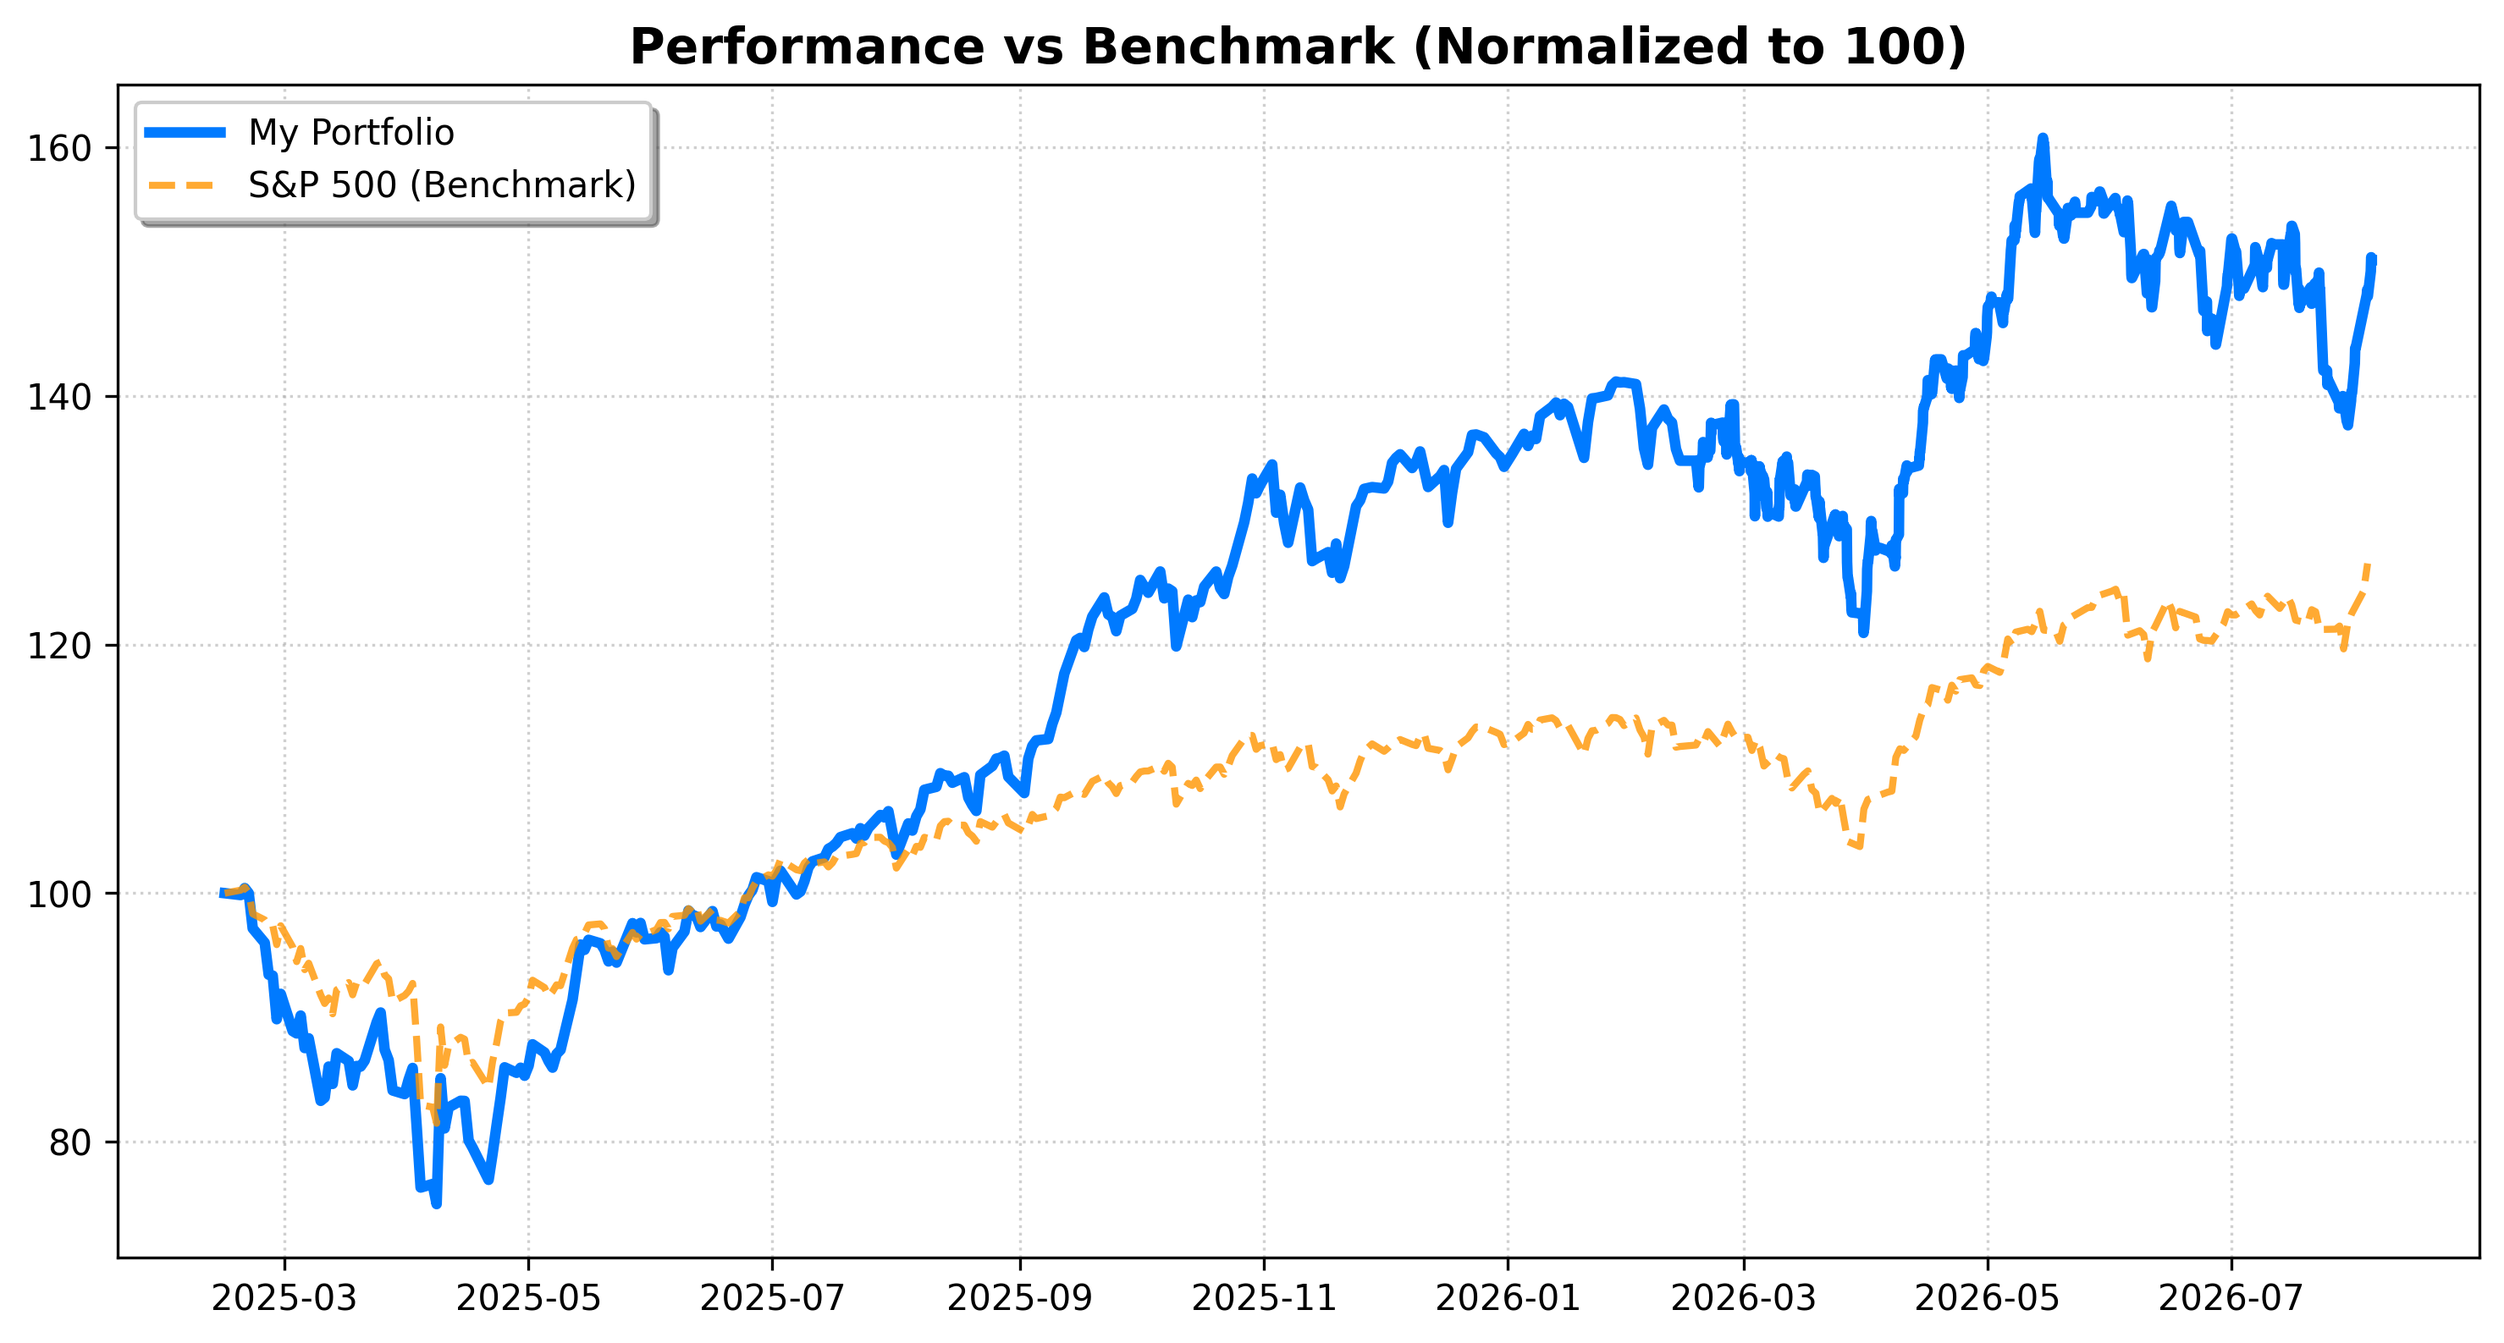
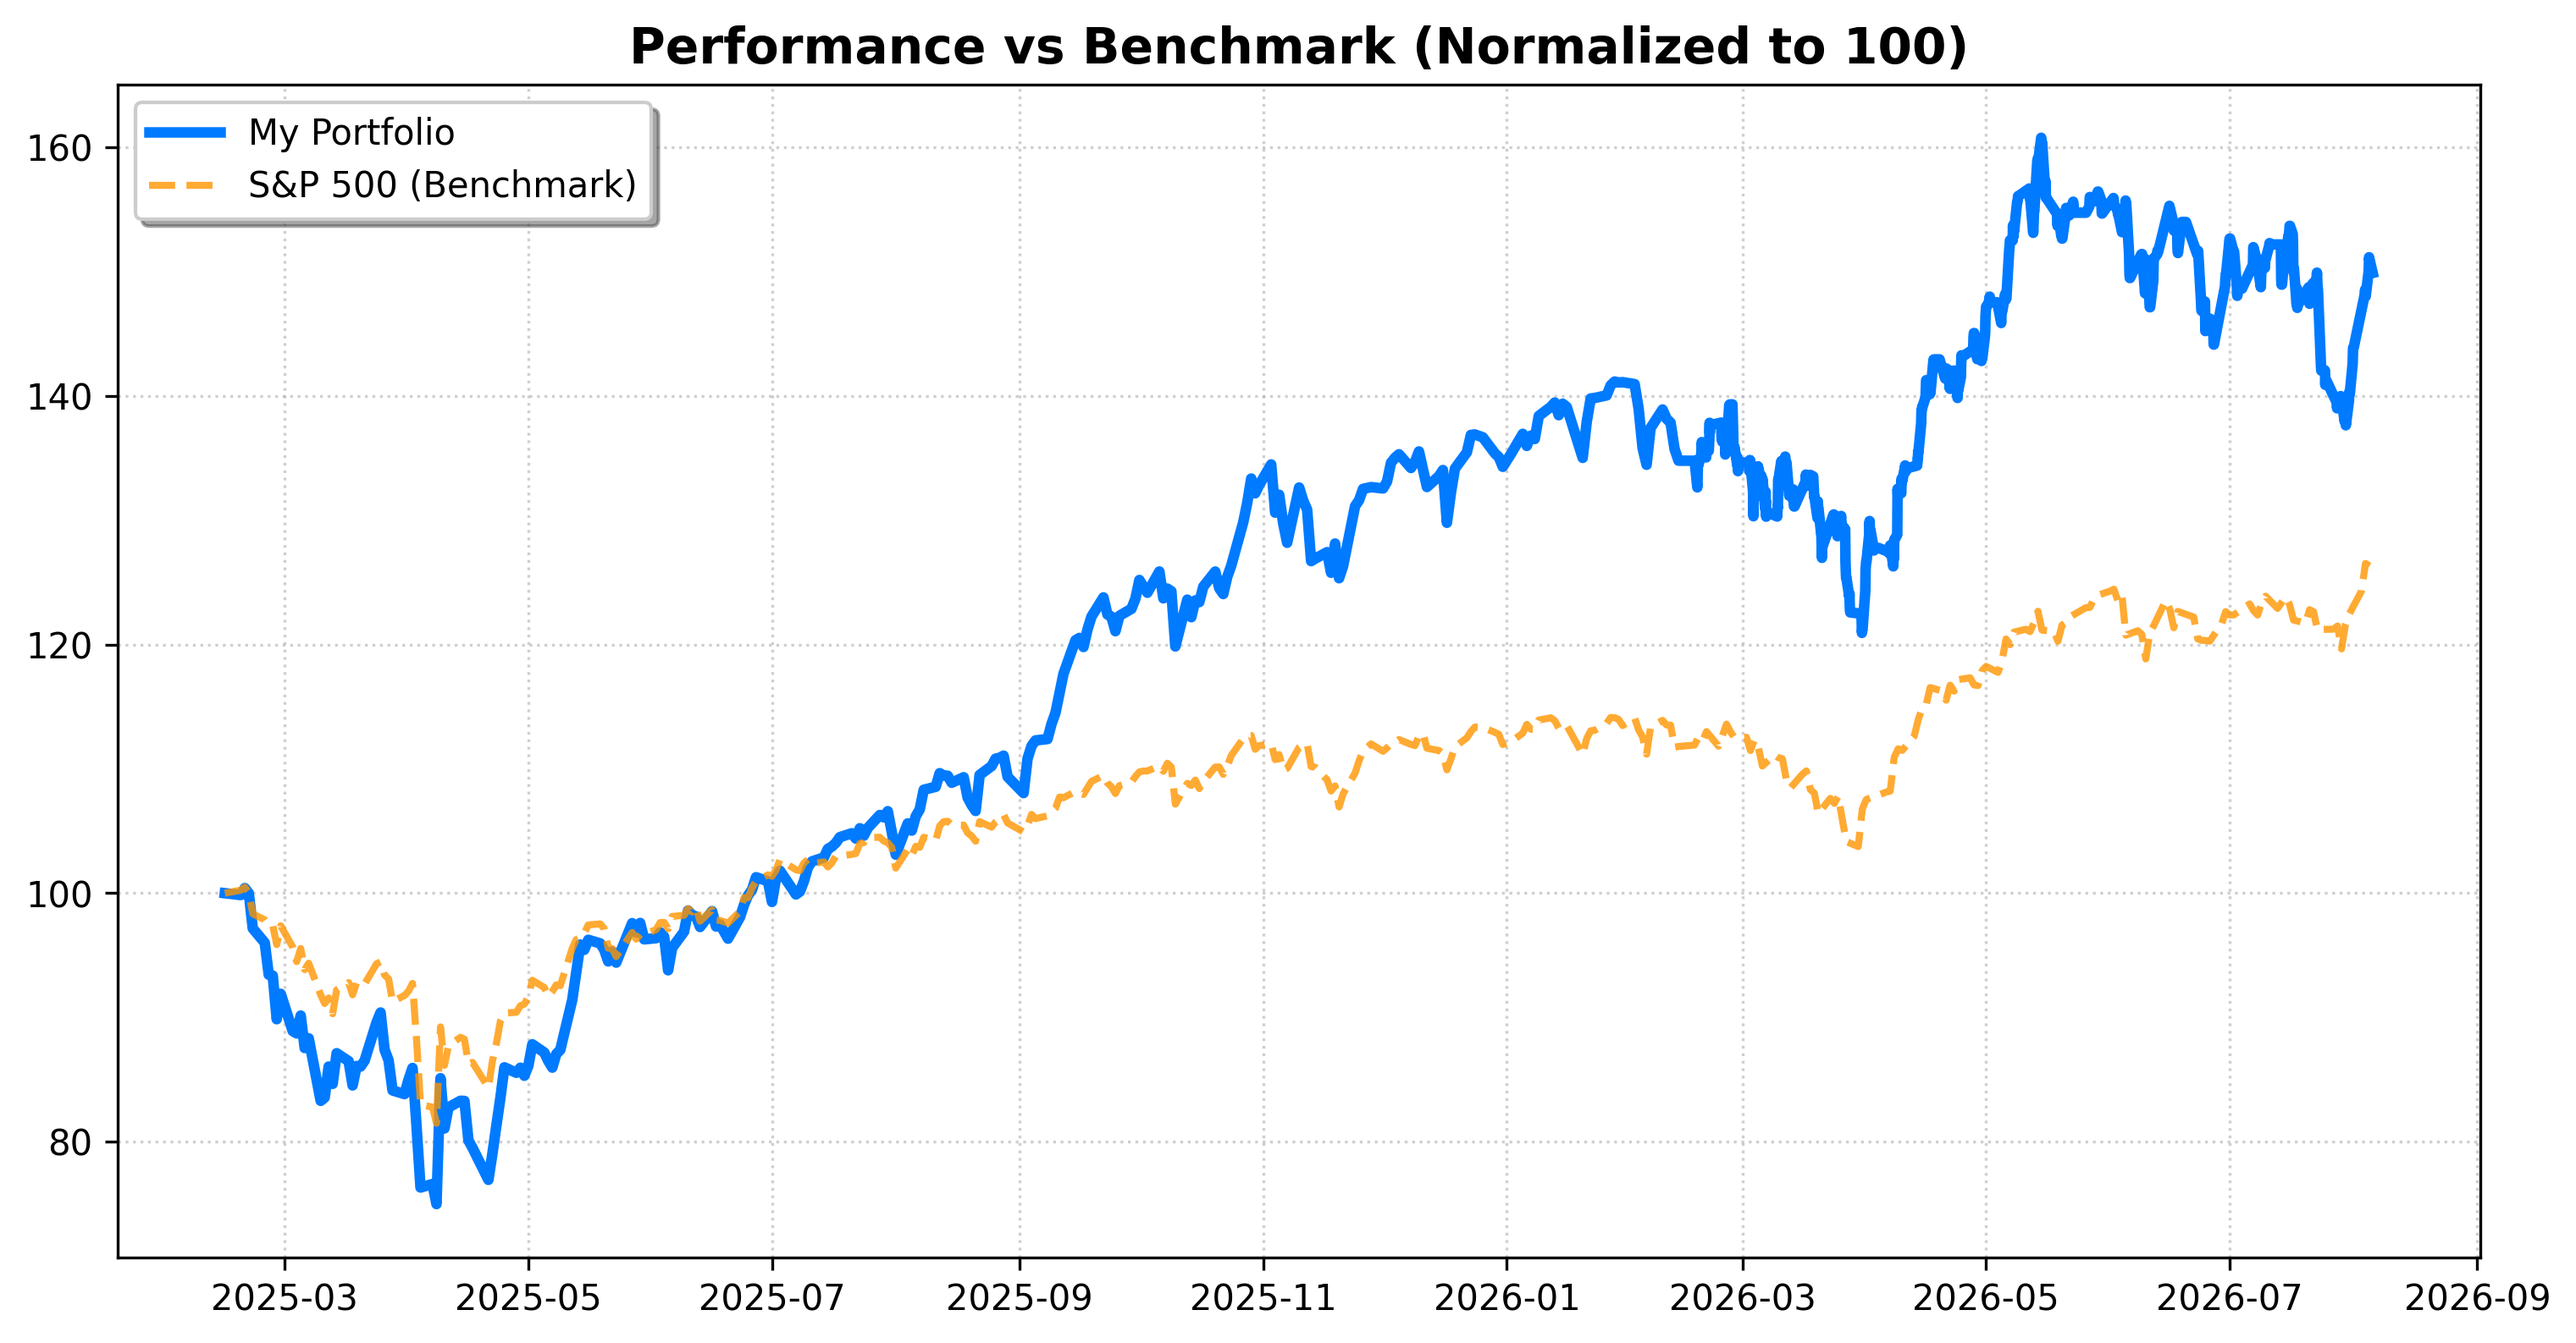
System Run: Analytics & Archive Update [skip ci]

diff --git a/README.md b/README.md
@@ -1,23 +1,23 @@
 # 📊 Portfolio Dashboard | מעקב תיק השקעות
-**Last Update:** 05/08/2026 01:17 | **USD/ILS:** ₪3.006
+**Last Update:** 05/08/2026 19:02 | **USD/ILS:** ₪3.008
 
 ## 💰 Portfolio Summary | סיכום התיק
 | Metric | Value | נתון |
 | :--- | :--- | :--- |
-| **Current Value** | `₪183,161` | **שווי נוכחי** |
-| **Total Invested** | `₪128,888` | **סך השקעה** |
-| **Total Profit/Loss** | `+42.11%` (₪54,273) | **רווח/הפסד כולל** |
-| **Daily Change** | `+1.97%` | **שינוי יומי** |
+| **Current Value** | `₪182,018` | **שווי נוכחי** |
+| **Total Invested** | `₪128,961` | **סך השקעה** |
+| **Total Profit/Loss** | `+41.14%` (₪53,058) | **רווח/הפסד כולל** |
+| **Daily Change** | `+1.27%` | **שינוי יומי** |
 
 ## 📜 Holdings | פירוט החזקות
 | Ticker | Shares | Avg. Cost | Current Price | P&L % | P&L ILS |
 | :--- | :--- | :--- | :--- | :--- | :--- |
-| GOOGL | 48 | $187.99 | $377.79 | 🟢 +100.96% | ₪27,390 |
-| ASML | 4 | $934.51 | $1,710.87 | 🟢 +83.08% | ₪9,336 |
-| XOM | 2 | $126.08 | $153.96 | 🟢 +22.11% | ₪168 |
-| NVDA | 57 | $148.62 | $211.84 | 🟢 +42.54% | ₪10,834 |
-| TSLA | 20 | $436.45 | $327.42 | 🔴 -24.98% | ₪-6,556 |
-| VOO | 24 | $527.38 | $708.96 | 🟢 +34.43% | ₪13,102 |
+| GOOGL | 48 | $187.99 | $365.07 | 🟢 +94.20% | ₪25,568 |
+| ASML | 4 | $934.51 | $1,685.64 | 🟢 +80.38% | ₪9,038 |
+| XOM | 2 | $126.08 | $152.01 | 🟢 +20.57% | ₪156 |
+| NVDA | 57 | $148.62 | $219.45 | 🟢 +47.66% | ₪12,145 |
+| TSLA | 20 | $436.45 | $322.12 | 🔴 -26.20% | ₪-6,878 |
+| VOO | 24 | $527.38 | $707.85 | 🟢 +34.22% | ₪13,029 |
 
 ## 📈 Charts | גרפים
 ![Performance](./data_hub/portfolio_performance.png)
